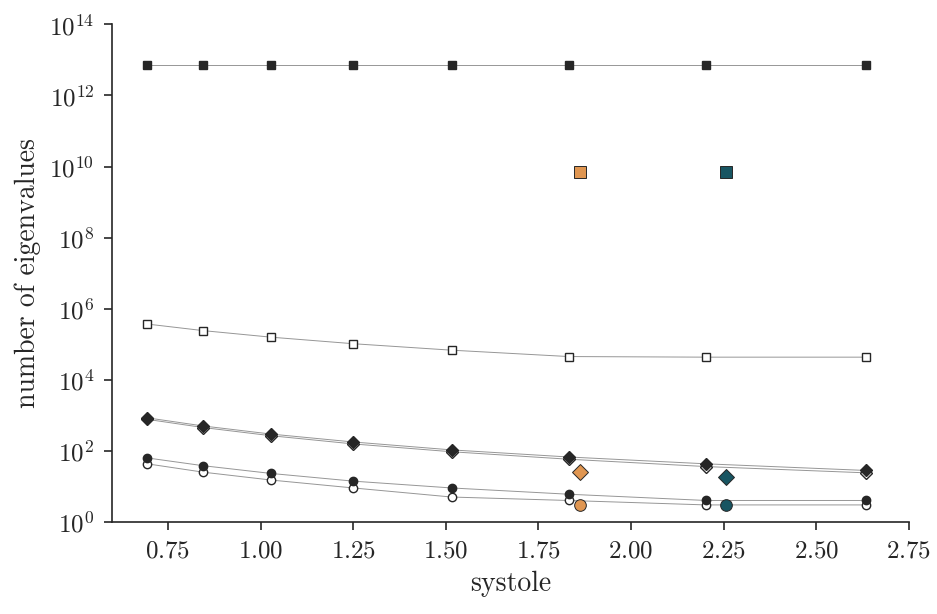
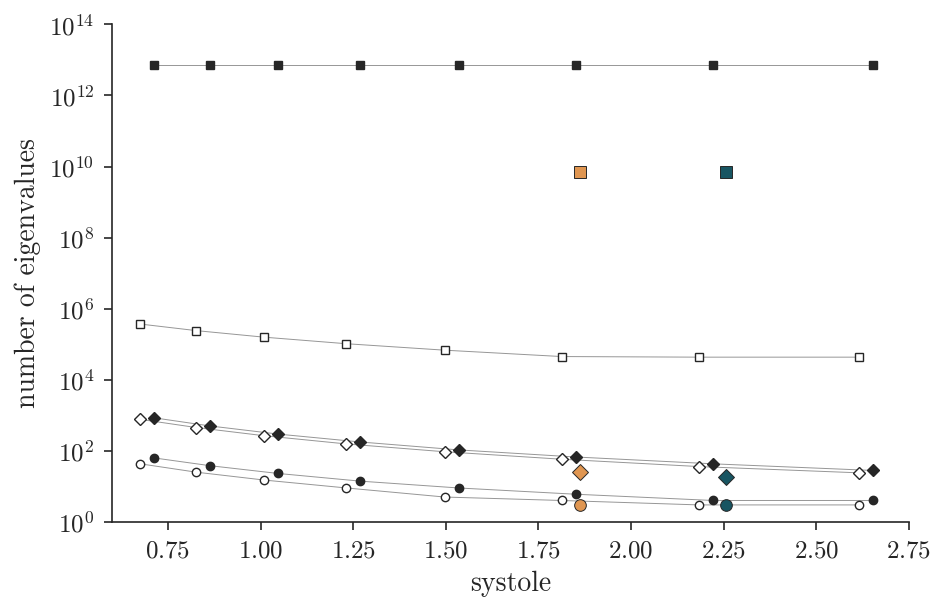
fig(E3): separate the M = 3 and M = 12 family series by a display-space offset (round 4, B n19)

diff --git a/paper/eigen/manuscript.tex b/paper/eigen/manuscript.tex
@@ -527,7 +527,7 @@ Table~\ref{tab:practice} gives the counts. With the instance inputs the test suc
 
 The comparison with Theorem~\ref{thm:E} mixes two effects, and the last two columns separate them. Theorem~\ref{thm:E} knows only the class, through $\varepsilon$ and $D(A,\varepsilon,M)$; the test uses the data and a diameter bound for the instance. With the class-level diameter bound in place of $2\diam P$ the test fails within the computed ranges for the triangle orbifolds and for most of the family, and the estimates are $5.6\times10^3$ and $8.6\times10^3$ eigenvalues for the triangle orbifolds, $8.6\times10^2$ to $1.6\times10^4$ for the family with $M=3$ and $2.3\times10^4$ to $4.1\times10^5$ with $M=12$. So most of the gap between the test and Theorem~\ref{thm:E} is knowledge of the geometry, through $e^{3\Delta}$; the use of the data saves a further factor of about $20$--$50$ at $M=3$, $10^6$ for the triangle orbifolds and $10^7$--$3\times10^8$ for the family at $M=12$, where the worst case of Theorem~\ref{thm:E} is governed by the divergence of the cone expansion. An orbifold whose diameter is known is in practice one whose geometry is known; what the instance-level test checks in our examples is that the computed spectra are consistent with the trace formula of the stated signature and with no other.
 
-Figure~\ref{fig:E3} plots the counts against the systole, for $M=3$ (open markers) and $M=12$ (filled), with the two triangle orbifolds at their own systoles: the test with the instance inputs (diamonds), the $N$ of Theorem~\ref{thm:E} (squares) and, as a reference, the least $N_{\rm obs}$ from which on the data lie within half the nearest gap, judged against the true signature (circles); $N_{\rm obs}$ uses the unknown geodesic term implicitly and is not a decision rule.
+Figure~\ref{fig:E3} plots the counts against the systole, for $M=3$ (open markers, drawn slightly to the left of their systole) and $M=12$ (filled, slightly to the right, so that close counts stay distinguishable), with the two triangle orbifolds at their own systoles: the test with the instance inputs (diamonds), the $N$ of Theorem~\ref{thm:E} (squares) and, as a reference, the least $N_{\rm obs}$ from which on the data lie within half the nearest gap, judged against the true signature (circles); $N_{\rm obs}$ uses the unknown geodesic term implicitly and is not a decision rule.
 
 \paperfigure{E3}{\figcapEThree}{fig:E3}
 

diff --git a/figures/src/E3.py b/figures/src/E3.py
@@ -3,11 +3,14 @@
 From figures/data/e3_practice.csv (figures/gen/gen_e3_practice.py), against the systole: for the
 eight members of the family (0;3,3,3,3), N_obs (circles), N_apr (diamonds) and N of Theorem thm:E
 (squares), open for M = 3 and filled for M = 12, members joined by thin lines; for O(2,8,8) and
-O(3,3,12) (M = 12) the same markers in their pillow hues (dark, light).
+O(3,3,12) (M = 12) the same markers in their pillow hues (dark, light). The two family series are
+drawn 2.5 pt to either side of their systole (open to the left, filled to the right; a display-space
+shift, the data are unchanged), so that counts differing by a few per cent stay distinguishable.
 Asserted: N_obs <= N_apr < N wherever N_apr exists; within the family at fixed M, N_apr decreases
 as the systole grows.
 """
 import numpy as np
+from matplotlib.transforms import ScaledTranslation
 
 from figlib import check_only, finish, fs, rows
 
@@ -32,14 +35,17 @@ def draw(recs):
     fig = fs.figure(78)
     ax = fig.add_axes([0.12, 0.15, 0.85, 0.81])
     marks = {3: "o", 4: "D", 5: "s"}           # column index -> marker
-    for M, filled in ((3, False), (12, True)):
+    shift_pt = 2.5                             # horizontal display shift of the two family series
+    for M, filled, sign in ((3, False, -1), (12, True, 1)):
+        tr = ax.transData + ScaledTranslation(sign * shift_pt / 72, 0, fig.dpi_scale_trans)
         fam = sorted([o for o in recs if o[0].startswith("(0;") and o[1] == M], key=lambda o: o[2])
         x = np.array([o[2] for o in fam])
         for col, mk in marks.items():
             y = np.array([np.nan if o[col] is None else o[col] for o in fam], float)
-            ax.plot(x, y, color=fs.GREY["mid"], lw=fs.LW["hair"], zorder=1)
+            ax.plot(x, y, color=fs.GREY["mid"], lw=fs.LW["hair"], zorder=1, transform=tr)
             ax.plot(x, y, ls="none", marker=mk, ms=fs.MARKER_PT["small"],
-                    mfc=fs.GREY["ink"] if filled else "white", mec=fs.GREY["ink"], mew=fs.LW["thin"], zorder=3)
+                    mfc=fs.GREY["ink"] if filled else "white", mec=fs.GREY["ink"], mew=fs.LW["thin"],
+                    zorder=3 if filled else 2, transform=tr)
     for name, hue in (("O(2, 8, 8)", fs.PILLOW["2,8,8"]), ("O(3, 3, 12)", fs.PILLOW["3,3,12"])):
         o = next(o for o in recs if o[0] == name and o[1] == 12)
         for col, mk in marks.items():

diff --git a/paper/eigen/ROUND4-CHANGES.md b/paper/eigen/ROUND4-CHANGES.md
@@ -69,7 +69,7 @@ The computations behind Section 7 were redone (`theory/eigen/instances.py`, `the
 | n16 notation | h_t renamed \hat g_t; ϑ defined |
 | n17 optional improvements | not done (recorded) |
 | n18 "factor near 8" | "about 9 per halving in the range of the table, tending to 8" |
-| n19 figures | Fig. E2 caption: "the sum of the two errors"; Fig. E3 regenerated from the new counts, caption rewritten. Not done: the open diamonds of E3 still overlap the filled ones at some systoles (styling in figures/src/E3.py) |
+| n19 figures | Fig. E2 caption: "the sum of the two errors"; Fig. E3 regenerated from the new counts, caption rewritten. Close-out: the two family series of E3 are drawn 2.5 pt to either side of their systole (open M = 3 left, filled M = 12 right, open markers beneath), by a display-space shift in `figures/src/E3.py` only (data and assertions unchanged); the citing sentence in §7.2 says so; no legend or in-figure text |
 | n20 data statement | Zenodo deposit (all six authors) primary [placeholder DOI]; development repository maintained by A. Agadi; scripts for every table named |
 | n21 wording | "none of the three bounds is a matter of convenience" reworded; abstract last sentence rewritten |
 
